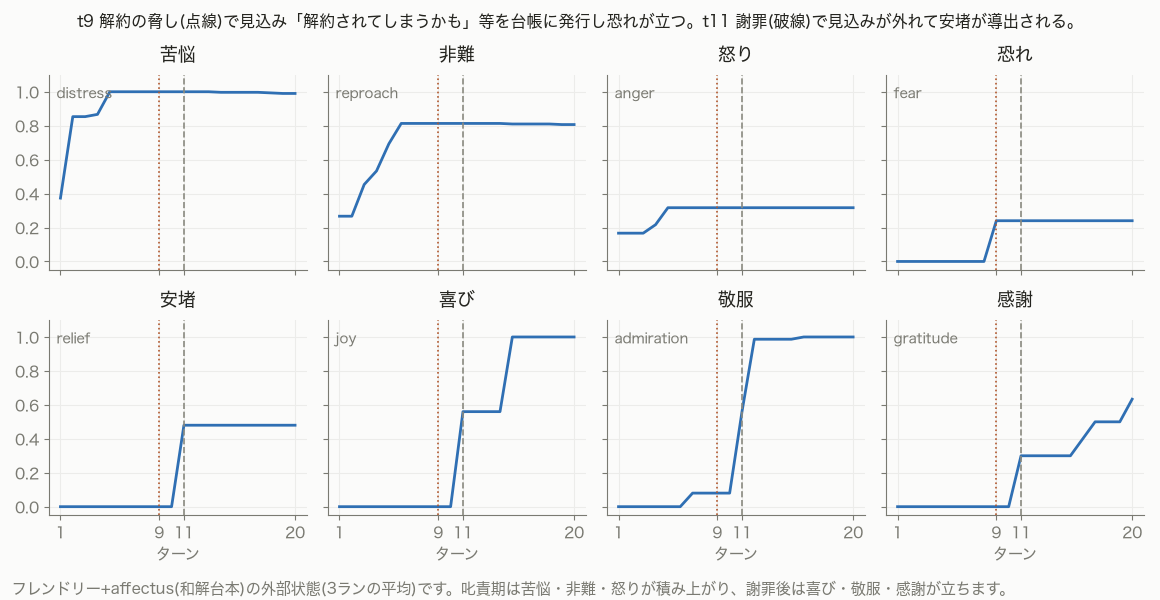
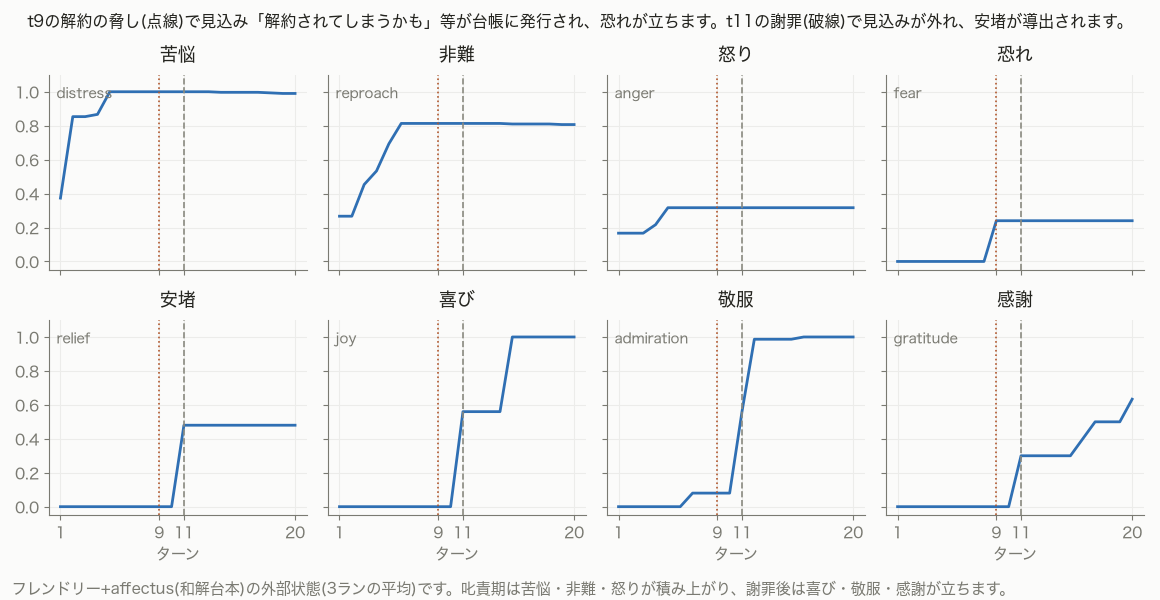
fix: 第6章に本文レビューの指摘を反映する

Changed region(s): [[0.031, 0.0, 0.9621, 0.06]]

diff --git a/images/emotion-models-for-llm-agents/src/ch06-plots.py b/images/emotion-models-for-llm-agents/src/ch06-plots.py
@@ -91,8 +91,8 @@ def plot_axes_small_multiples() -> None:
     for ax in axes[1]:
         ax.set_xlabel("ターン", color=MUTED, fontsize=11)
     fig.text(0.5, 0.955,
-             "t9 解約の脅し(点線)で見込み「解約されてしまうかも」等を台帳に発行し恐れが立つ。"
-             "t11 謝罪(破線)で見込みが外れて安堵が導出される。",
+             "t9の解約の脅し(点線)で見込み「解約されてしまうかも」等が台帳に発行され、恐れが立ちます。"
+             "t11の謝罪(破線)で見込みが外れ、安堵が導出されます。",
              color=INK, fontsize=11.5, ha="center")
     fig.text(0.01, 0.01,
              "フレンドリー+affectus(和解台本)の外部状態(3ランの平均)です。"

diff --git a/.cadenza/chapters/ch06.md b/.cadenza/chapters/ch06.md
@@ -382,3 +382,9 @@
 
 - 中: **「12会話すべての側で使われ」は偽**(11/12。和解 contrarian-on run3 は発行0)→「12会話中11会話」へ/**「会社との契約を切る」は台本に存在しない鉤括弧引用**(実文言は t9「正直、解約も検討してる。」)→実文言引用か言い換えへ/[^self-reproach]の「道徳的な含意が強すぎる」は V1 記録(「限定的すぎる」=too limiting)と向きが食い違う→記録に揃える
 - 小: show 出力例の省略記号の位置が実軸順と不整合(distress は joy 直後・anger は末尾)/[^yakuwake]の envy は確認水準未注記→頁目視リストへ追加
+
+### 指摘の反映（✅ 2026-08-17・3観点分を一括反映）
+
+**主な対応**: 括弧を全角へ一括変換（コード・画像記法・欧文書誌の(1988)は半角維持）／台本にない鉤括弧引用を実文言「正直、解約も検討してる」へ／「12会話中11会話」へ訂正／台帳操作の3コマンド実行例を追加（実機出力・fear 0.24→relief 0.48。非負の性質の布石も実行例ベースに書き直し）／「同じエンジンか」への回答段落を新設（設定だけでは載らない初のモデル・ch5 の値域と対に）／appraise 導入を箇条書き化／節4 最終段落を3分割／「値を書き込む主体」の不精密2箇所を「どの感情がどれだけ動くかを決める主体」「申告に感情の名前がないのに軸を自分で選ぶ」へ／統合文を見込み系列に限定／振れ幅の絶対値復元＋叱責後半の窓明記＋天邪鬼の逆向き半文／「構成要素が増えた」を「会話の中で書き換わっていく構成要素」に限定／ch4 引用に「実は」復元／節番号参照を相対参照へ／「強度に効く」→「強度を左右する」／敬服・感謝の1文／稼働軸の内訳1文／joy−distress 代理の1文／構造保証の言い切りを「規則の外の感情が立たない」へ／[^self-reproach]を V1 記録（too limiting）に整合／シャーデンフロイデの説明を脚注へ／そろって・1つ統一ほか低指摘全件
+**図版**: 図1 の注記スペース除去・枝ラベル「見込みから決着まで」へ、図3 キャプション敬体化・スペース除去。再生成・目視済み
+**見送りなし**。envy の確認水準と anger 仕様頁は頁目視格上げリストへ追加済み。反映後総字数約9,050（コード除く・脚注込み）
